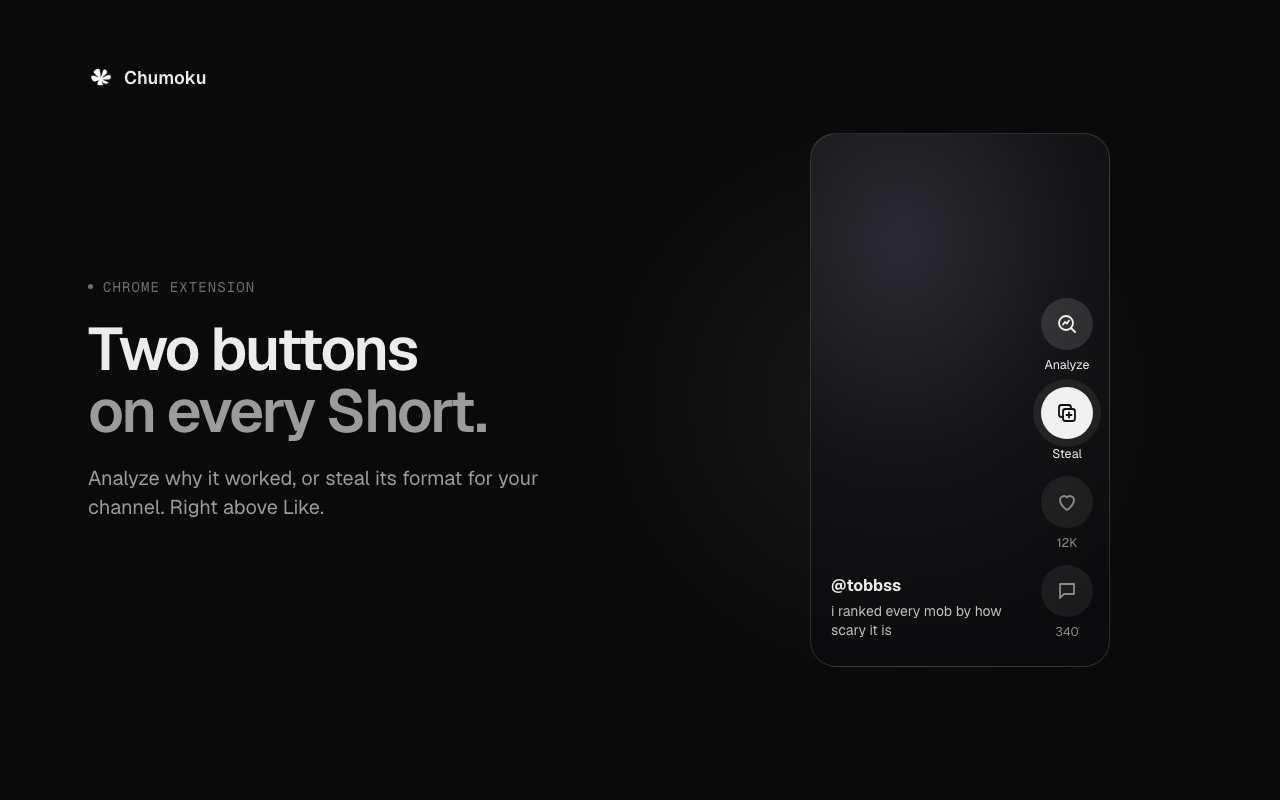
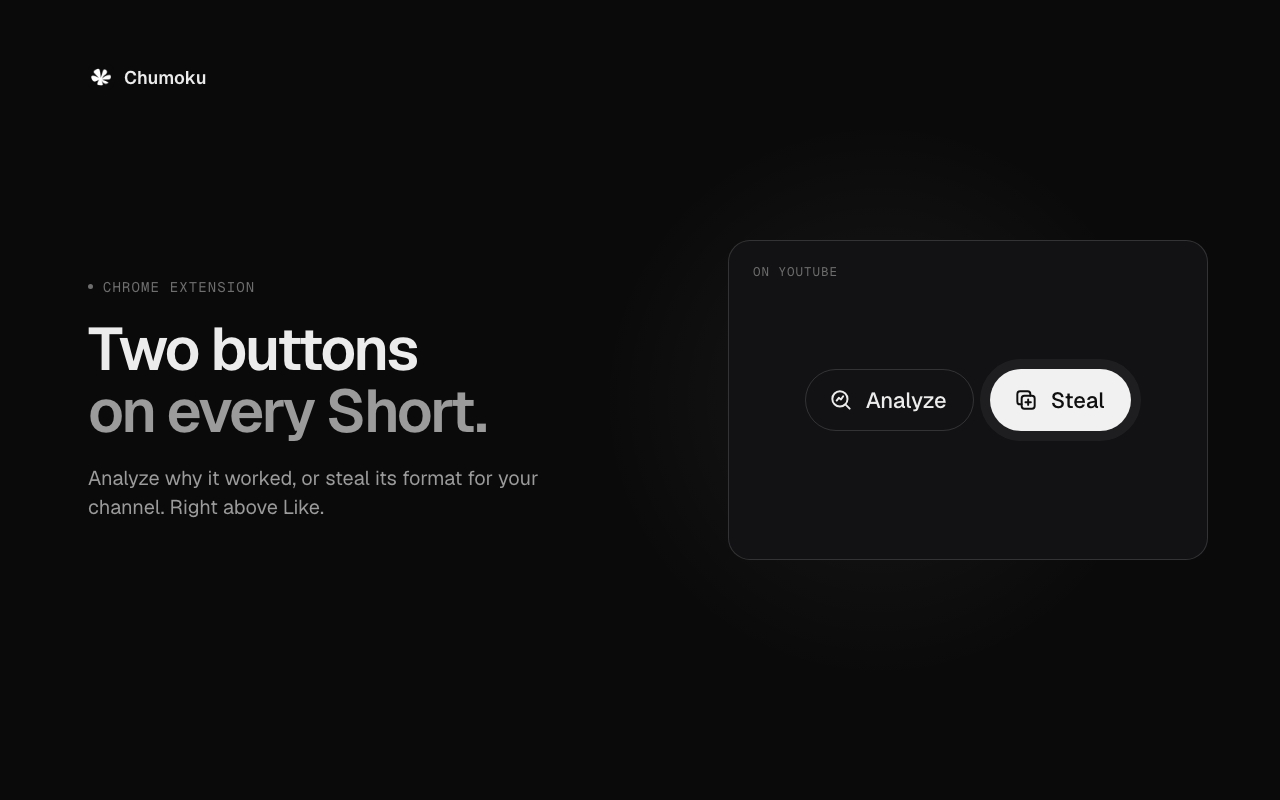
Store screenshots: two buttons instead of a mock phone

diff --git a/extension/store/shot-4.html b/extension/store/shot-4.html
@@ -1,14 +1,6 @@
 <!doctype html><html><head><meta charset="utf-8"><title>Side panel</title><link rel="stylesheet" href="store.css"></head><body><div class="frame"><div class="brand"><img src="../icons/icon-128.png" alt="">Chumoku</div>
 <div><p class="eyebrow"><span class="dot"></span>Side panel</p><h1>Beside the video.<span class="dim">No new tab.</span></h1><p class="sub">Keep scrolling. Results open in Chrome's side panel and stay in your account.</p></div>
-<div class="visual"><div style="display:flex;gap:18px;align-items:center;zoom:0.7"><div class="short">
-  <div class="cap"><b>@tobbss</b><p>i ranked every mob by how scary it is</p></div>
-  <div class="actions">
-    <div class="act"><i><svg viewBox="0 0 24 24" fill="none" stroke="currentColor" stroke-width="1.8" stroke-linecap="round" stroke-linejoin="round"><circle cx="11" cy="11" r="7"/><path d="m20 20-3.5-3.5"/><path d="M8 12.5l2-2.5 2 1.5 2-3"/></svg></i>Analyze</div>
-    <div class="act primary"><i><svg viewBox="0 0 24 24" fill="none" stroke="currentColor" stroke-width="1.8" stroke-linecap="round" stroke-linejoin="round"><rect x="8" y="8" width="12" height="12" rx="2.5"/><path d="M16 8V6.5A2.5 2.5 0 0 0 13.5 4h-7A2.5 2.5 0 0 0 4 6.5v7A2.5 2.5 0 0 0 6.5 16H8"/><path d="M14 11.5v5M11.5 14h5"/></svg></i>Steal</div>
-    <div class="act faded"><i><svg viewBox="0 0 24 24" fill="none" stroke="currentColor" stroke-width="1.8" stroke-linejoin="round"><path d="M12 20s-7-4.4-7-10a4 4 0 0 1 7-2.6A4 4 0 0 1 19 10c0 5.6-7 10-7 10z"/></svg></i>12K</div>
-    <div class="act faded"><i><svg viewBox="0 0 24 24" fill="none" stroke="currentColor" stroke-width="1.8" stroke-linejoin="round"><path d="M5 5h14v10H9l-4 4z"/></svg></i>340</div>
-  </div>
-</div><div class="plate panel">
+<div class="visual"><div class="stack"><div class="plate btn-stage"><span class="stage-label">On YouTube</span><div class="big-pills"><span class="big-pill"><svg viewBox="0 0 24 24" fill="none" stroke="currentColor" stroke-width="1.8" stroke-linecap="round" stroke-linejoin="round"><circle cx="11" cy="11" r="7"/><path d="m20 20-3.5-3.5"/><path d="M8 12.5l2-2.5 2 1.5 2-3"/></svg>Analyze</span><span class="big-pill primary"><svg viewBox="0 0 24 24" fill="none" stroke="currentColor" stroke-width="1.8" stroke-linecap="round" stroke-linejoin="round"><rect x="8" y="8" width="12" height="12" rx="2.5"/><path d="M16 8V6.5A2.5 2.5 0 0 0 13.5 4h-7A2.5 2.5 0 0 0 4 6.5v7A2.5 2.5 0 0 0 6.5 16H8"/><path d="M14 11.5v5M11.5 14h5"/></svg>Steal</span></div></div><div class="plate panel">
   <div class="panel-head"><span><img src="../icons/icon-128.png" alt="">Chumoku</span><div class="chips"><span class="chip">Analysis</span><span class="chip on">Steal</span></div></div>
   <div class="panel-body">
     <p class="k">What they did</p><p class="v dim">A ranking that starts with the one everybody expects, then argues the viewer out of it.</p>

diff --git a/extension/store/shot-1.html b/extension/store/shot-1.html
@@ -1,11 +1,3 @@
 <!doctype html><html><head><meta charset="utf-8"><title>Chrome extension</title><link rel="stylesheet" href="store.css"></head><body><div class="frame"><div class="brand"><img src="../icons/icon-128.png" alt="">Chumoku</div>
 <div><p class="eyebrow"><span class="dot"></span>Chrome extension</p><h1>Two buttons<span class="dim">on every Short.</span></h1><p class="sub">Analyze why it worked, or steal its format for your channel. Right above Like.</p></div>
-<div class="visual"><div class="short">
-  <div class="cap"><b>@tobbss</b><p>i ranked every mob by how scary it is</p></div>
-  <div class="actions">
-    <div class="act"><i><svg viewBox="0 0 24 24" fill="none" stroke="currentColor" stroke-width="1.8" stroke-linecap="round" stroke-linejoin="round"><circle cx="11" cy="11" r="7"/><path d="m20 20-3.5-3.5"/><path d="M8 12.5l2-2.5 2 1.5 2-3"/></svg></i>Analyze</div>
-    <div class="act primary"><i><svg viewBox="0 0 24 24" fill="none" stroke="currentColor" stroke-width="1.8" stroke-linecap="round" stroke-linejoin="round"><rect x="8" y="8" width="12" height="12" rx="2.5"/><path d="M16 8V6.5A2.5 2.5 0 0 0 13.5 4h-7A2.5 2.5 0 0 0 4 6.5v7A2.5 2.5 0 0 0 6.5 16H8"/><path d="M14 11.5v5M11.5 14h5"/></svg></i>Steal</div>
-    <div class="act faded"><i><svg viewBox="0 0 24 24" fill="none" stroke="currentColor" stroke-width="1.8" stroke-linejoin="round"><path d="M12 20s-7-4.4-7-10a4 4 0 0 1 7-2.6A4 4 0 0 1 19 10c0 5.6-7 10-7 10z"/></svg></i>12K</div>
-    <div class="act faded"><i><svg viewBox="0 0 24 24" fill="none" stroke="currentColor" stroke-width="1.8" stroke-linejoin="round"><path d="M5 5h14v10H9l-4 4z"/></svg></i>340</div>
-  </div>
-</div></div></div></body></html>
+<div class="visual"><div class="plate btn-stage"><span class="stage-label">On YouTube</span><div class="big-pills"><span class="big-pill"><svg viewBox="0 0 24 24" fill="none" stroke="currentColor" stroke-width="1.8" stroke-linecap="round" stroke-linejoin="round"><circle cx="11" cy="11" r="7"/><path d="m20 20-3.5-3.5"/><path d="M8 12.5l2-2.5 2 1.5 2-3"/></svg>Analyze</span><span class="big-pill primary"><svg viewBox="0 0 24 24" fill="none" stroke="currentColor" stroke-width="1.8" stroke-linecap="round" stroke-linejoin="round"><rect x="8" y="8" width="12" height="12" rx="2.5"/><path d="M16 8V6.5A2.5 2.5 0 0 0 13.5 4h-7A2.5 2.5 0 0 0 4 6.5v7A2.5 2.5 0 0 0 6.5 16H8"/><path d="M14 11.5v5M11.5 14h5"/></svg>Steal</span></div></div></div></div></body></html>

diff --git a/extension/store/store.css b/extension/store/store.css
@@ -100,3 +100,14 @@ h1 { text-wrap: balance; }
 .pill { display: inline-flex; align-items: center; gap: 8px; padding: 9px 16px 9px 13px; border-radius: 999px; border: 1px solid var(--line-strong); font-size: 14px; font-weight: 500; }
 .pill svg { width: 16px; height: 16px; }
 .pill.primary { background: #f1f1f1; color: #0f0f0f; border-color: transparent; }
+
+/* Two buttons on a stage: what the extension adds, without a mock phone. */
+.btn-stage { position: relative; width: 480px; height: 320px; display: flex; align-items: center; justify-content: center; }
+.stage-label { position: absolute; left: 24px; top: 22px; font-family: 'Geist Mono', monospace; font-size: 12.5px; letter-spacing: 0.08em; text-transform: uppercase; color: var(--text-faint); }
+.big-pills { display: flex; gap: 16px; }
+.big-pill { display: inline-flex; align-items: center; gap: 12px; padding: 16px 26px 16px 22px; border-radius: 999px; border: 1px solid var(--line-strong); font-size: 22px; font-weight: 500; }
+.big-pill svg { width: 26px; height: 26px; }
+.big-pill.primary { background: #f1f1f1; color: #0f0f0f; border-color: transparent; box-shadow: 0 0 0 10px rgba(241,241,241,0.06); }
+.stack { display: flex; flex-direction: column; gap: 18px; align-items: center; zoom: 0.78; }
+.stack .btn-stage { width: 420px; height: 150px; }
+.stack .big-pill { font-size: 20px; padding: 14px 22px 14px 18px; }

diff --git a/extension/README.md b/extension/README.md
@@ -72,7 +72,7 @@ Built for Shorts creators posting daily in ranking, Minecraft, Roblox and commen
 
 **Privacy policy URL:** https://chumoku.co/privacy (has a Chrome extension section).
 
-**Trader status (EU):** trader - Chumoku sells subscriptions, so the extension is part of a business. Google shows the trader's contact details on the listing.
+**Trader status (EU):** non-trader for now (2026-09-23): trader verification needs a registered organization in Dun & Bradstreet and there is none yet. Switch to trader in the developer dashboard once the business is registered.
 
 **Permissions justification** (the store asks for each):
 - `contextMenus`: the right-click Analyze / Steal entries on Short links.
